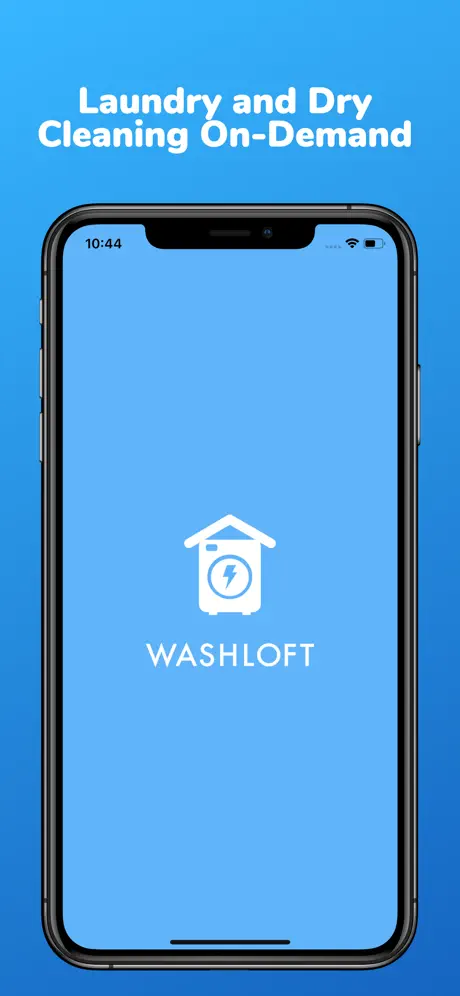
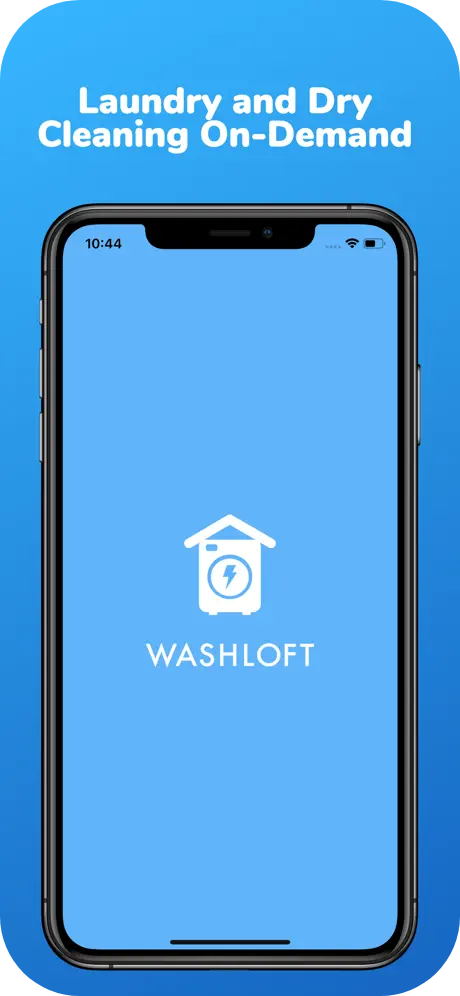
Rounded corners, better 3d carousel

diff --git a/src/components/ProjectSection.tsx b/src/components/ProjectSection.tsx
@@ -2,9 +2,14 @@
 
 import { motion } from 'framer-motion';
 import Image from 'next/image';
-import { useEffect, useState, useRef } from 'react';
-import useEmblaCarousel from 'embla-carousel-react';
+import { useEffect, useState } from 'react';
+import { Swiper, SwiperSlide } from 'swiper/react';
+import { EffectCoverflow, Autoplay } from 'swiper/modules';
 import { getBasePath } from '@/utils/paths';
+
+// Import Swiper styles
+import 'swiper/css';
+import 'swiper/css/effect-coverflow';
 
 interface ProjectSectionProps {
   title: string;
@@ -16,41 +21,17 @@ interface ProjectSectionProps {
 
 export default function ProjectSection({ title, description, imageUrl = '', isReversed = false, isWashLoft = false }: ProjectSectionProps) {
   const [mounted, setMounted] = useState(false);
-  const intervalRef = useRef<NodeJS.Timeout | null>(null);
-  const [emblaRef, emblaApi] = useEmblaCarousel({
-    loop: true,
-    dragFree: false,
-    containScroll: false,
-    align: "center"
-  });
 
   const washLoftImages = [
-    `${getBasePath()}/washloft/screenshot1.png`,
-    `${getBasePath()}/washloft/screenshot2.png`,
-    `${getBasePath()}/washloft/screenshot3.png`,
-    `${getBasePath()}/washloft/screenshot4.png`
+    `${getBasePath()}/washloft/screenshot1.png?v=2`,
+    `${getBasePath()}/washloft/screenshot2.png?v=2`,
+    `${getBasePath()}/washloft/screenshot3.png?v=2`,
+    `${getBasePath()}/washloft/screenshot4.png?v=2`
   ];
 
   useEffect(() => {
     setMounted(true);
   }, []);
-
-  useEffect(() => {
-    if (!isWashLoft || !emblaApi || !mounted || typeof window === 'undefined') return;
-
-    const startAutoplay = () => {
-      if (intervalRef.current) clearInterval(intervalRef.current);
-      intervalRef.current = setInterval(() => emblaApi.scrollNext(), 5000);
-    };
-
-    startAutoplay();
-    emblaApi.on('select', startAutoplay);
-
-    return () => {
-      if (intervalRef.current) clearInterval(intervalRef.current);
-      emblaApi.off('select', startAutoplay);
-    };
-  }, [isWashLoft, emblaApi, mounted]);
 
   const renderCarousel = () => {
     if (!mounted) {
@@ -63,38 +44,58 @@ export default function ProjectSection({ title, description, imageUrl = '', isRe
             fill
             className="object-contain"
             sizes="(max-width: 768px) 100vw, 50vw"
-            style={{ borderRadius: '24px', overflow: 'hidden' }}
+            style={{ overflow: 'hidden' }}
+            priority={true}
+            loading="eager"
           />
         </div>
       );
     }
 
     return (
-      <div 
-        className="h-[600px] overflow-hidden shadow-lg" 
-        ref={emblaRef}
+      <Swiper
+        effect={'coverflow'}
+        grabCursor={true}
+        centeredSlides={true}
+        slidesPerView={'auto'}
+        loop={true}
+        speed={1000}
+        coverflowEffect={{
+          rotate: 50,
+          stretch: 0,
+          depth: 100,
+          modifier: 1,
+          slideShadows: true,
+        }}
+        autoplay={{
+          delay: 3000,
+          disableOnInteraction: false,
+        }}
+        modules={[EffectCoverflow, Autoplay]}
+        className="h-[600px] w-full swiper-container"
       >
-        <div className={`flex h-full touch-pan-y ${!mounted ? 'opacity-0' : 'opacity-100'} transition-opacity duration-300`}>
-          {washLoftImages.map((img, index) => (
-            <div 
-              key={img}
-              className="relative flex-[0_0_100%] min-w-0 h-full pl-4"
-            >
-              <div className="relative w-full h-full overflow-hidden">
-                <Image
-                  src={img}
-                  alt={`WashLoft Screenshot ${index + 1}`}
-                  fill
-                  className="object-contain"
-                  sizes="(max-width: 768px) 100vw, 50vw"
-                  style={{ borderRadius: '24px', overflow: 'hidden' }}
-                  priority={index === 0}
-                />
-              </div>
+        {washLoftImages.map((img, index) => (
+          <SwiperSlide key={img} className="!w-[80%] !max-w-[800px] swiper-slide-container">
+            <div className="relative w-full h-[90%] mx-auto my-auto">
+              <Image
+                src={img}
+                alt={`WashLoft Screenshot ${index + 1}`}
+                fill
+                className="object-contain"
+                sizes="(max-width: 768px) 100vw, 50vw"
+                style={{ 
+                  overflow: 'hidden',
+                  maxHeight: '100%',
+                  width: '100%',
+                  height: '100%'
+                }}
+                priority={index === 0}
+                loading="eager"
+              />
             </div>
-          ))}
-        </div>
-      </div>
+          </SwiperSlide>
+        ))}
+      </Swiper>
     );
   };
 

diff --git a/src/app/globals.css b/src/app/globals.css
@@ -17,3 +17,45 @@ body {
   background: rgb(var(--background-rgb));
   font-family: Arial, Helvetica, sans-serif;
 }
+
+/* Swiper custom styles */
+.swiper-container {
+  width: 100%;
+  padding-top: 30px;
+  padding-bottom: 30px;
+}
+
+.swiper-slide {
+  background-position: center;
+  background-size: cover;
+  transition: transform 0.6s;
+  display: flex;
+  align-items: center;
+  justify-content: center;
+}
+
+.swiper-slide-container {
+  height: 100%;
+  padding: 20px 0;
+  display: flex;
+  align-items: center;
+  justify-content: center;
+}
+
+.swiper-slide-active {
+  transform: scale(1.05);
+}
+
+/* Enhanced 3D effect */
+.swiper-slide {
+  perspective: 1000px;
+  transform-style: preserve-3d;
+}
+
+.swiper-slide img {
+  box-shadow: 0 15px 50px rgba(0, 0, 0, 0.3);
+  transition: all 0.6s;
+  object-fit: contain !important;
+  max-width: 100% !important;
+  max-height: 100% !important;
+}
